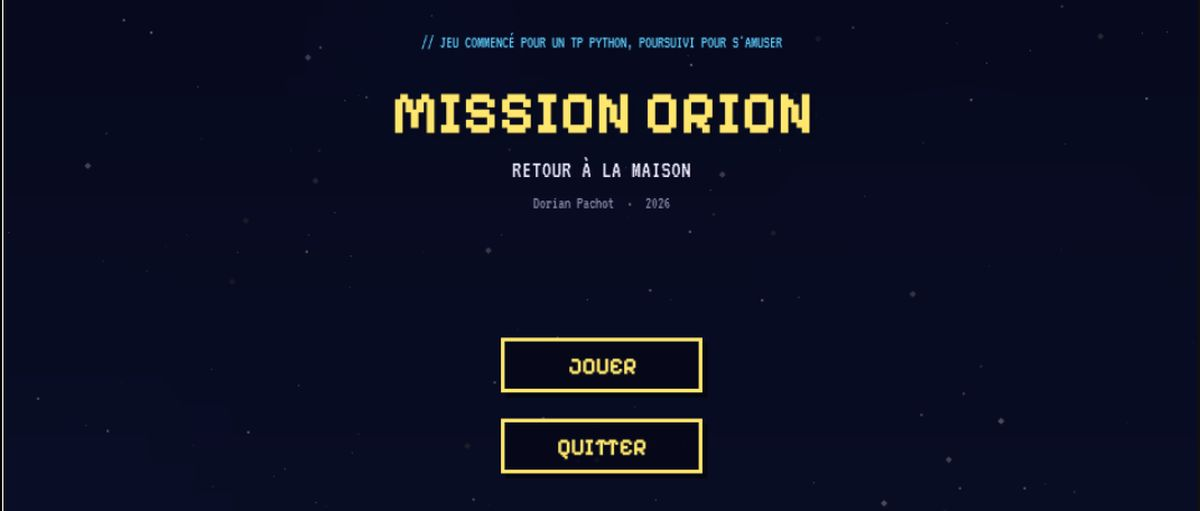
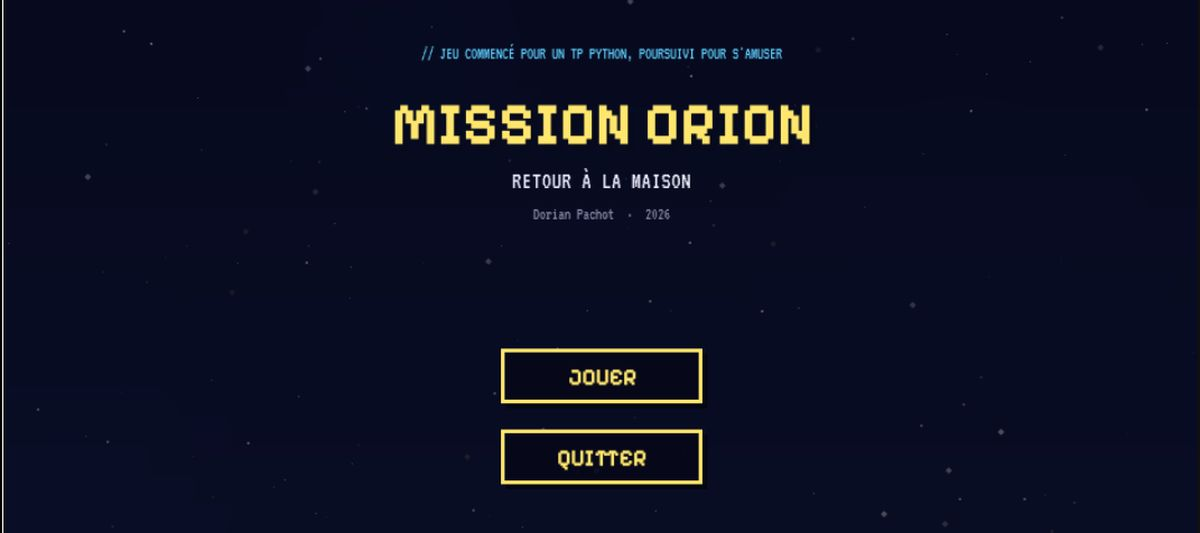
Projets: un seul cadre par apercu, les trois se ressemblent

diff --git a/css/style.css b/css/style.css
@@ -2547,43 +2547,41 @@ body::after {
 .project__why p { font-size: 0.93rem; color: var(--text-2); margin: 0; }
 
 /* ---------- Visuel du projet ----------
-   Les trois visuels occupent exactement le meme cadre, sinon un projet
-   parait plus important que les autres alors que rien ne le justifie.
+   Un seul cadre par projet, toujours le meme : meme rapport, meme
+   bordure, meme arrondi, meme ombre. Avant, SYNCRO affichait quatre
+   rectangles encadres chacun de leur cote pendant que les deux autres
+   projets n'en avaient qu'un : ca ne se ressemblait pas.
 
-   Le rapport 2.35 n'est pas choisi au hasard : c'est celui d'une rangee
-   de quatre captures de telephone en 9/16 avec leurs interstices, soit
-   4 x (9/16) + 3 x gap. Les deux captures de site ont ete recadrees a ce
-   meme rapport, donc elles remplissent le cadre a la hauteur pres.
+   Maintenant le cadre est porte par .project__visual, et ce qu'il y a
+   dedans le remplit bord a bord. Une capture de site le remplit seule,
+   les quatre captures de SYNCRO se le partagent en quatre colonnes
+   collees, separees par un simple filet.
 
-   Ne pas toucher au rapport sans recadrer les images de assets/meta/,
-   les trois sont liees. */
+   Le rapport 2.25 vient de la : quatre captures 9/16 cote a cote font
+   exactement 4 x (9/16). Les deux captures de site ont ete recadrees a
+   ce meme rapport. Ne pas y toucher sans les recadrer aussi. */
 .project__visual {
-  display: flex;
-  justify-content: center;
-  align-items: center;
   width: 100%;
-  aspect-ratio: 2.35 / 1;
+  aspect-ratio: 2.25 / 1;
+  border-radius: 12px;
+  border: 1px solid color-mix(in srgb, var(--c) 24%, var(--border));
+  box-shadow: 0 18px 44px rgba(0, 0, 0, 0.18);
+  overflow: hidden;
 }
 .project__visual picture { display: block; width: 100%; height: 100%; }
 
-/* Une capture de site : elle remplit tout le cadre. */
-.project__shot {
-  width: 100%;
-  height: 100%;
-  object-fit: cover;
-  border-radius: 12px;
-  border: 1px solid color-mix(in srgb, var(--c) 22%, var(--border));
-  box-shadow: 0 18px 44px rgba(0, 0, 0, 0.18);
-  display: block;
-}
+/* Une capture de site : elle occupe tout le cadre. */
+.project__shot { width: 100%; height: 100%; object-fit: cover; display: block; }
 
-/* Quatre captures de telephone : meme cadre, decoupe en quatre colonnes.
-   La hauteur est imposee a 100% pour que les quatre s'alignent au pixel,
-   quelle que soit la largeur d'ecran. */
+/* Quatre captures de telephone : le cadre est decoupe en quatre colonnes
+   collees, sans interstice. Les quatre captures ont exactement le meme
+   fond bleu pale, donc bord a bord elles forment une bande continue et
+   l'ensemble se lit comme une seule image, comme pour les deux autres
+   projets. */
 .project__shots {
   display: grid;
   grid-template-columns: repeat(4, 1fr);
-  gap: 0.7rem;
+  gap: 0;
   width: 100%;
   height: 100%;
 }
@@ -2592,9 +2590,6 @@ body::after {
   height: 100%;
   object-fit: cover;
   object-position: top center;
-  border-radius: 10px;
-  border: 1px solid color-mix(in srgb, var(--c) 25%, var(--border));
-  box-shadow: 0 14px 34px rgba(0, 0, 0, 0.16);
   display: block;
 }
 
@@ -2604,7 +2599,6 @@ body::after {
 @media (max-width: 940px) {
   .project { grid-template-columns: 1fr; gap: 1.8rem; padding: 1.6rem; min-height: 0; }
   .project__visual { order: -1; }
-  .project__shots { gap: 0.4rem; }
 }
 
 /* Liens secondaires sous le bloc, en texte simple pour ne pas

diff --git a/index.html b/index.html
@@ -626,7 +626,7 @@
                   <div class="project__visual">
                     <picture>
                       <source srcset="assets/meta/shot-crp.webp" type="image/webp" />
-                      <img class="project__shot" src="assets/meta/shot-crp.jpg" alt="Page d'accueil du site CRP-Assurance.com" loading="lazy" width="1200" height="511" />
+                      <img class="project__shot" src="assets/meta/shot-crp.jpg" alt="Page d'accueil du site CRP-Assurance.com" loading="lazy" width="1200" height="533" />
                     </picture>
                   </div>
                 </article>
@@ -682,7 +682,7 @@
                   <div class="project__visual">
                     <picture>
                       <source srcset="assets/meta/shot-orion.webp" type="image/webp" />
-                      <img class="project__shot" src="assets/meta/shot-orion.jpg" alt="Écran-titre du jeu Mission Orion" loading="lazy" width="1200" height="511" />
+                      <img class="project__shot" src="assets/meta/shot-orion.jpg" alt="Écran-titre du jeu Mission Orion" loading="lazy" width="1200" height="533" />
                     </picture>
                   </div>
                 </article>
